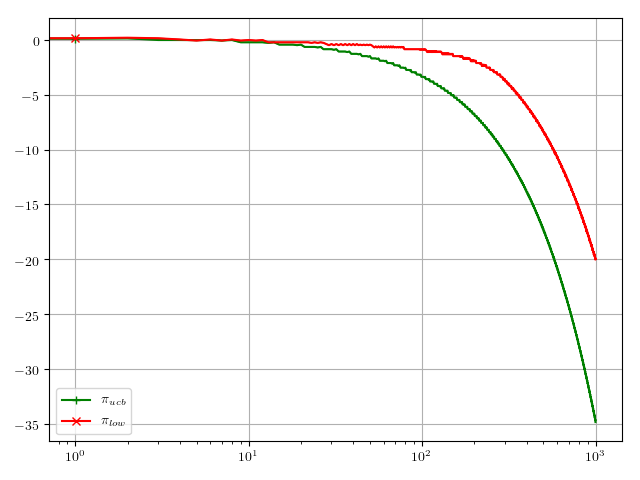
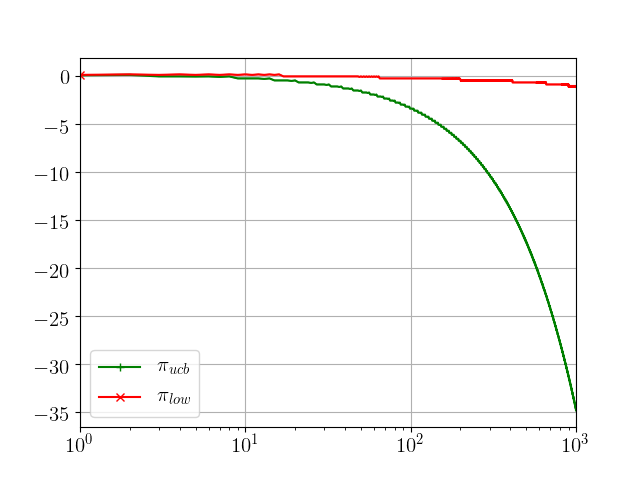
Last Plots

diff --git a/adaptiveRank/policies/Ore.py b/adaptiveRank/policies/Ore.py
@@ -92,9 +92,9 @@ class ORE2(Policy):
 
             # Output
             if len(self._activeRanks) > 1:
-                c_print(4, "ORE.py, CHOICE INIT RANK ELIMINATION {}-ROUND with {} appends per rank".format(self._r, nbAppends))
-                c_print(4, "ORE.py, RANKS MEANS {}, Nb Pulls: {}".format(self._meanRanks, self._nbPullsRanks))
-                c_print(4, "ORE.py, choice: round {}, Active Ranks {}\n".format(self._t, self._activeRanks))
+                c_print(1, "ORE.py, CHOICE INIT RANK ELIMINATION {}-ROUND with {} appends per rank".format(self._r, nbAppends))
+                c_print(1, "ORE.py, RANKS MEANS {}, Nb Pulls: {}".format(self._meanRanks, self._nbPullsRanks))
+                c_print(1, "ORE.py, choice: round {}, Active Ranks {}\n".format(self._t, self._activeRanks))
 
             # Playing the less played rank among the active ones
             active_ranks_pulls = [self._nbPullsRanks[i] for i in self._activeRanks]
@@ -103,7 +103,7 @@ class ORE2(Policy):
             self._pulledRankIndex = rank_id
             self._nbPullsRanks[rank_id] += 1
             # List extension: calibration + Ts
-            c_print(4, "\nORE.py, CHOICE pulled rank {}, starting list: {}".format(rank_id, index))
+            c_print(1, "\nORE.py, CHOICE pulled rank {}".format(rank_id))
             tmp_index = list(self._activeArms[:rank_id+1])
             jump_list += [0] * (rank_id+1)
             jump_rank += [rank_id] * (rank_id+1)
@@ -113,7 +113,7 @@ class ORE2(Policy):
                 jump_rank += [rank_id] * (rank_id+1)
                 jump_list += [1] * (rank_id+1)
 
-            c_print(4, "ORE.py, CHOICE rank_id: {} with {} appends, active ranks pulls {}".format(rank_id, nbAppends, active_ranks_pulls))
+            c_print(1, "ORE.py, CHOICE rank_id: {} with {} appends, active ranks pulls {}".format(rank_id, nbAppends, active_ranks_pulls))
 
             # NO RANK ELIMINATION at first round or within a window of active ranks pulls
             if self._t == 0 or min(active_ranks_pulls)!= max(active_ranks_pulls):
@@ -122,7 +122,7 @@ class ORE2(Policy):
                 return index
 
             # Stage 2: Rank Elimination
-            c_print(4, "ORE.py Start Rank Elimination with {} active ranks".format(len(self._activeRanks)))
+            c_print(1, "ORE.py Start Rank Elimination with {} active ranks".format(len(self._activeRanks)))
             self._r = self._r + 1
             if len(self._activeRanks) > 1:
                 self._rankElimination()
@@ -148,7 +148,7 @@ class ORE2(Policy):
             ranks_gap = self._meanRanks[max_rank_id] - self._meanRanks[rank_id]
             # Rank Elimination: eliminating up to 1 rank per round
             if ranks_gap > self._cb():
-                c_print(4,"\nRANK ELIMINATION(), Eliminating Rank {}, vs {}, cb {}, gap {}, means {}".format(rank_id, max_rank_id, self._cb(), ranks_gap, self._meanRanks))
+                c_print(1,"\nRANK ELIMINATION(), Eliminating Rank {}, vs {}, cb {}, gap {}, means {}".format(rank_id, max_rank_id, self._cb(), ranks_gap, self._meanRanks))
                 self._s = self._s + 1
                 self._activeRanks.remove(rank_id)
                 if len(self._activeRanks) == 1:

diff --git a/adaptiveRank/environment/MAB.py b/adaptiveRank/environment/MAB.py
@@ -112,10 +112,16 @@ class MAB(Environment):
 
                 # Reward with (possible) cost penalization
                 if self._SC == 1:
-                    result.store(t, c, (1.0*reward) - cost)
+                    if self._binary_rewards:
+                        result.store(t, c, (1.0*reward) - cost)
+                    else:
+                        result.store(t, c, (1.0*expected_reward) - cost)
                     cost = 0.0
                 else:
-                    result.store(t, c, expected_reward)
+                    if self._binary_rewards:
+                        result.store(t, c, reward)
+                    else:
+                        result.store(t, c, expected_reward)
 
                 # Delays update
                 for i in self._armsIndexes:
@@ -146,11 +152,11 @@ class MAB(Environment):
             self._meanArms = []
             seed(seed_init)
             starting_grid = linspace(0.0, 1.0, self.nbBuckets, endpoint = True)
-            c_print(1, "MAB.py arm_creation() Buckets: {}".format(starting_grid))
+            c_print(4, "MAB.py arm_creation() Buckets: {}".format(starting_grid))
             delta = 1.0/(self.nbBuckets) # Previously adopted delta
             new_extreme = delta*(self.fraTop)*self.nbBuckets
             good_arms = linspace(0, new_extreme, self.nbBuckets, endpoint = False)
-            c_print(1, "MAB.py arm_creation() Good arms: {}".format(good_arms))
+            c_print(4, "MAB.py arm_creation() Good arms: {} with extreme point: {}".format(good_arms, new_extreme))
             means = array(snp.merge(starting_grid, good_arms)) # evenly round to 2 decimals 
             means = around(unique(means), 3)
             self._meanArms = 1 - means
@@ -168,7 +174,7 @@ class MAB(Environment):
                 #    delayUB = self._given_delaysUB[i]
                 #    gamma = self._given_gamma
                 tmpArm = Bernoulli(mu, gamma, delayLB, delayUB, self._binary_rewards)
-                c_print(4, "MAB.py, arm_creation(), Created arm: {}".format(tmpArm))
+                c_print(1, "MAB.py, arm_creation(), Created arm: {}".format(tmpArm))
                 self.arms.append(tmpArm)
         else:
             #1

diff --git a/run.py b/run.py
@@ -14,12 +14,13 @@ from adaptiveRank.policies.Ore import ORE2
 from adaptiveRank.policies.One import One
 from adaptiveRank.policies.Alt import Alt
 
+from math import sqrt
 from optparse import OptionParser
 from numpy import mean, std, zeros, arange, where
 from joblib import Parallel, delayed
 import matplotlib
 from matplotlib import rc
-rc('font',**{'family':'sans-serif','sans-serif':['Helvetica']})
+rc('font',**{'family':'sans-serif','sans-serif':['Helvetica'], 'size':'15.0'})
 rc('text', usetex=True)
 import matplotlib.pyplot as plt
 import sys
@@ -82,9 +83,9 @@ else:
 #    policies.append(Alt())
 #    policies_name.append('PI alternating')
 #else:
-policies.append(FPO_UCB(HORIZON, TAU, DELTA, ROUNDING, 5, BINARY, MOD, 100))
+policies.append(FPO_UCB(HORIZON, TAU, DELTA, ROUNDING, 5, BINARY, MOD, sqrt(2)))
 policies_name.append('PI ucb')
-shrink = 10
+shrink = 1
 policies.append(ORE2(HORIZON, TAU, DELTA, shrink, ROUNDING, 5, BINARY, MOD))
 policies_name.append('PI Low')
 
@@ -168,13 +169,14 @@ if opts.VERBOSE:
             plt_fn(arange(HORIZON), avg_regret_low, color = COLORS[pilow_index], marker = MARKERS[pilow_index], markevery=HORIZON/100, label = '$\displaystyle\pi_{low}$')
 
 
-            if SC:
-                plt.legend(loc=2)
+            if not SWITCHING:
+                plt.legend(loc=2) #upper left
             else:
-                plt.legend(loc=3)
+                plt.legend(loc=3) #lower left
             #plt.xlabel('Rounds')
             #plt.ylabel('Regret')
-            plt.tight_layout()
+            #plt.tight_layout()
+            plt.autoscale(enable = True, axis ='x', tight=True)
             plt.grid()
             ax.set_xscale('log')
 
